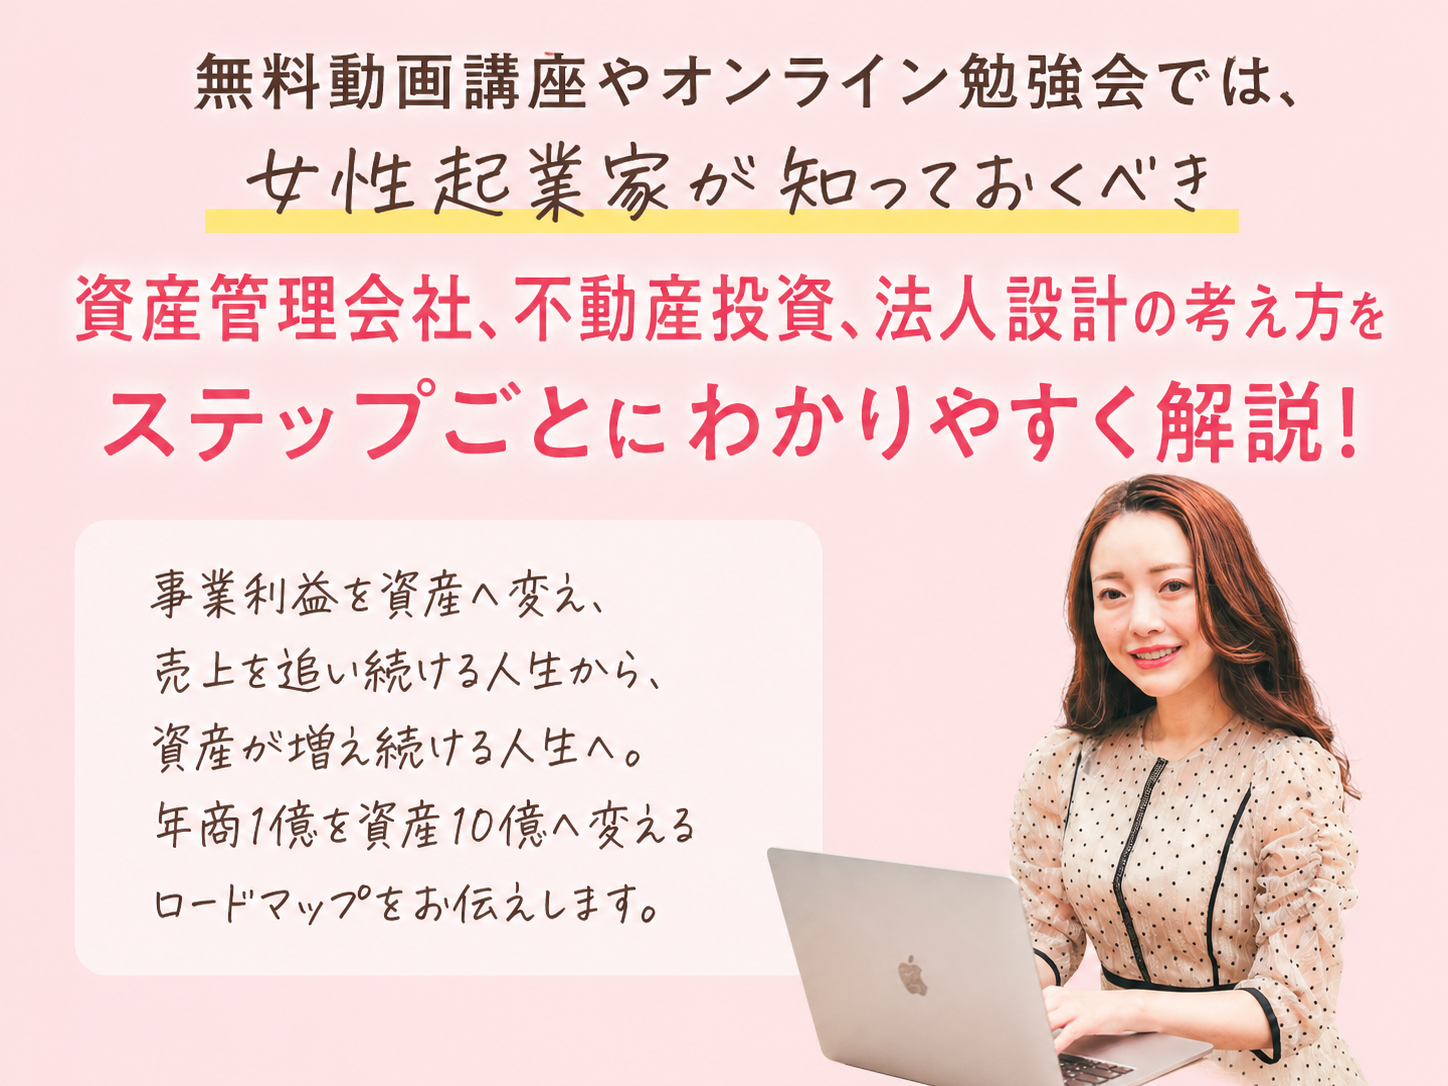
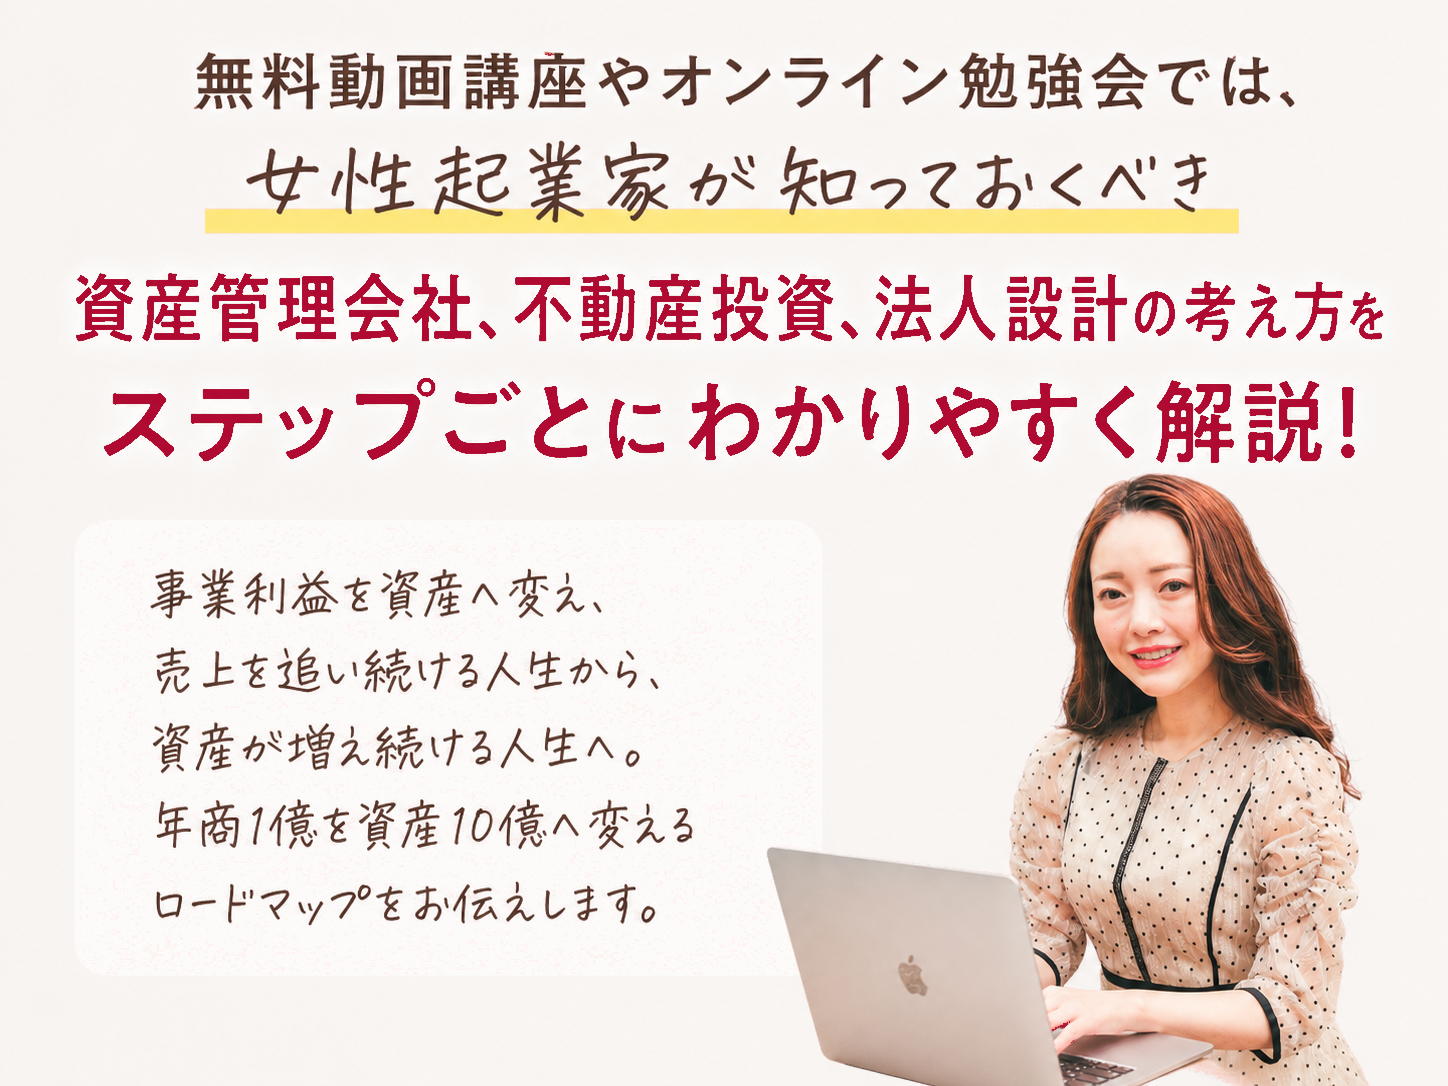
色統一の仕上げ: 解説ブロック・動画講座見出しをFV配色に変換、CSSピンク背景6箇所をクリーム化、実績画像上の切り出しカス除去

Changed region(s): [[0.0311, 0.2431, 0.9634, 0.4254], [0.3419, 0.3343, 0.3729, 0.3646]]

diff --git a/index.html b/index.html
@@ -125,7 +125,7 @@ a{text-decoration:none;color:inherit;}
 /* ヘッダー全体を淡ピンクのパネルで囲む */
 .tokuten-head{
   width:min(94%,648px);margin:0 auto;
-  background:linear-gradient(180deg,#FCEAF0 0%,#FBE1EA 100%);
+  background:linear-gradient(180deg,#FDF8F1 0%,#F7ECDF 100%);
   border:1px solid rgba(201,36,79,.14);border-radius:20px;
   padding:34px 4% 28px;box-shadow:0 8px 22px rgba(180,80,110,.12);
 }
@@ -492,7 +492,7 @@ a{text-decoration:none;color:inherit;}
    4. 解決提示
 ============================================================ */
 .kaiketsu{
-  background:linear-gradient(180deg,#FDF2F4 0%,#FCE3EA 100%);
+  background:linear-gradient(180deg,#FCF5EE 0%,#F6EADD 100%);
   padding:0;text-align:center;
 }
 .kaiketsu-img{width:100%;height:auto;display:block;}
@@ -587,7 +587,7 @@ a{text-decoration:none;color:inherit;}
 /* ============================================================
    5. 解説セクション
 ============================================================ */
-.kaisetsu{background:#FDF2F4;padding:0 0 36px;text-align:center;}
+.kaisetsu{background:#FCF5EE;padding:0 0 36px;text-align:center;}
 .kaisetsu-img{width:100%;height:auto;display:block;margin-bottom:24px;}
 .kaisetsu .ks1{
   font-weight:900;font-size:clamp(17px,4.8vw,26px);line-height:2;letter-spacing:.02em;
@@ -619,11 +619,11 @@ a{text-decoration:none;color:inherit;}
   position:relative;
   background:
     radial-gradient(circle at 6% 12%,rgba(232,180,90,.35) 0 5px,transparent 6px),
-    radial-gradient(circle at 94% 8%,rgba(211,54,103,.25) 0 7px,transparent 8px),
+    radial-gradient(circle at 94% 8%,rgba(176,0,48,.20) 0 7px,transparent 8px),
     radial-gradient(circle at 90% 46%,rgba(232,180,90,.3) 0 4px,transparent 5px),
-    radial-gradient(circle at 8% 58%,rgba(211,54,103,.2) 0 6px,transparent 7px),
+    radial-gradient(circle at 8% 58%,rgba(176,0,48,.16) 0 6px,transparent 7px),
     radial-gradient(circle at 93% 88%,rgba(232,180,90,.35) 0 5px,transparent 6px),
-    linear-gradient(180deg,#FCE3EA 0%,#FDF0F3 50%,#FBDDE5 100%);
+    linear-gradient(180deg,#F8EEE2 0%,#FCF5EE 50%,#F6EADD 100%);
   padding:0;
 }
 .fit-img{width:100%;height:auto;display:block;}
@@ -706,7 +706,7 @@ a{text-decoration:none;color:inherit;}
   text-shadow:0 2px 4px rgba(120,10,40,.45);
 }
 .kanshu-ribbon p small{display:block;font-size:.5em;letter-spacing:.3em;font-weight:700;}
-.kanshu-body{background:linear-gradient(180deg,#FBDDE5,#FDF2F4);padding:30px 0 40px;}
+.kanshu-body{background:linear-gradient(180deg,#F6EADD,#FCF5EE);padding:30px 0 40px;}
 .kanshu-card{
   width:min(92%,600px);margin:0 auto;background:#fff;
   border:1px solid #E3C97E;outline:4px solid #fff;border-radius:4px;
@@ -840,7 +840,7 @@ a{text-decoration:none;color:inherit;}
   font-size:clamp(18px,5vw,27px);letter-spacing:.08em;
   text-shadow:0 2px 8px rgba(40,15,25,.7);
 }
-.last-cta{background:linear-gradient(180deg,#FDF2F4,#FCE3EA);padding-top:38px;}
+.last-cta{background:linear-gradient(180deg,#FCF5EE,#F6EADD);padding-top:38px;}
 
 /* ============================================================
    11. フッター
@@ -931,7 +931,7 @@ footer .f-copy{margin-top:14px;font-size:12px;opacity:.95;}
 
   <!-- ============ 5. 解説セクション ============ -->
   <section class="kaisetsu">
-    <img class="kaisetsu-img" src="images/kaisetsu-main.png?v=1" alt="無料動画講座やオンライン勉強会では、女性起業家が知っておくべき資産管理会社、不動産投資、法人設計の考え方をステップごとにわかりやすく解説！事業利益を資産へ変え、売上を追い続ける人生から、資産が増え続ける人生へ。年商1億を資産10億へ変えるロードマップをお伝えします。（３児のママ経営者 松田リエ）" width="1448" height="1086">
+    <img class="kaisetsu-img" src="images/kaisetsu-main.png?v=2" alt="無料動画講座やオンライン勉強会では、女性起業家が知っておくべき資産管理会社、不動産投資、法人設計の考え方をステップごとにわかりやすく解説！事業利益を資産へ変え、売上を追い続ける人生から、資産が増え続ける人生へ。年商1億を資産10億へ変えるロードマップをお伝えします。（３児のママ経営者 松田リエ）" width="1448" height="1086">
   </section>
 
   <!-- ============ 6. こんな女性起業家にぴったり ============ -->
@@ -944,7 +944,7 @@ footer .f-copy{margin-top:14px;font-size:12px;opacity:.95;}
     <img class="profile-img" src="images/profile-head.png?v=2" alt="年商1億を資産10億へ。3児のママ経営者が実践する女性起業家の資産形成術。" width="1012" height="278">
     <img class="profile-img" src="images/kanshu-band.png?v=3" alt="事業と資産形成の両立を実現した 女性起業家 松田リエ監修。年商10億・資産20億超、40室以上の不動産を保有し、M&Aも経験した3児のママ経営者が監修。事業の利益を不動産や資産へ変え、自分が働かなくてもお金が増えていく仕組みを構築。「どう資産を作るか」を、リアルな経験に基づいて体系化した資産形成の無料講座です。" width="1122" height="1402">
     <img class="profile-img" src="images/rie-profile.png?v=4" alt="松田リエ Rie Matsuda。3児のママ経営者でありながら年商10億・資産20億超を実現／40室以上の不動産を保有し事業利益を資産へ変える仕組みを構築／M&Aも経験しお金を増やす経営を実践／累計受講生4,500名以上／YouTube登録者22万人・総フォロワー70万人超・テレビ出演16回以上／出版17冊・累計43万部突破" width="962" height="1725">
-    <img class="profile-img" src="images/jisseki.png?v=7" alt="実績画像・メディア掲載多数。テレビ出演写真／週刊女性・THE TIME,・美的.com・Yahoo!ニュース・小学館・女子SPA!・毎日新聞・朝日新聞・産経新聞・読売新聞・中日新聞・壮快ほか雑誌掲載多数。累計受講生4,500名以上／YouTube総登録者22万人以上／総フォロワー70万人突破／累計43万部突破／テレビ出演16回以上" width="724" height="1369">
+    <img class="profile-img" src="images/jisseki.png?v=8" alt="実績画像・メディア掲載多数。テレビ出演写真／週刊女性・THE TIME,・美的.com・Yahoo!ニュース・小学館・女子SPA!・毎日新聞・朝日新聞・産経新聞・読売新聞・中日新聞・壮快ほか雑誌掲載多数。累計受講生4,500名以上／YouTube総登録者22万人以上／総フォロワー70万人突破／累計43万部突破／テレビ出演16回以上" width="724" height="1369">
   </section>
 
   <!-- ============ 9-10. ビジョン〜ラスト（画像） ============ -->
@@ -952,7 +952,7 @@ footer .f-copy{margin-top:14px;font-size:12px;opacity:.95;}
     <img class="vision-img" src="images/vision-head.png?v=1" alt="「売上を作る力」だけでなく、「資産を作る力」も身につけてほしい。女性起業家が家族との時間も、お金の安心も、どちらも手に入れられる社会をつくりたい。そのために誕生した講座です" width="1086" height="1449">
     <img class="vision-img" src="images/vision-main.png?v=4" alt="年商1億を資産10億へ。売上を追い続ける女性起業家から、資産が増え続ける女性経営者へ。今こそ、資産形成の第一歩を。女性起業家のための資産形成完全ロードマップ 完全無料 オンライン勉強会を開催中！" width="941" height="749">
     <div class="last-video" style="position:relative;">
-      <img class="vision-img" src="images/last-video.png?v=1" alt="動画講座全3回(100分以上)プレゼント！ビジネスで稼ぐ力だけでなく、資産を作る力、守る力を身につけませんか？" width="1523" height="1033">
+      <img class="vision-img" src="images/last-video.png?v=2" alt="動画講座全3回(100分以上)プレゼント！ビジネスで稼ぐ力だけでなく、資産を作る力、守る力を身につけませんか？" width="1523" height="1033">
       <a class="cta-link" href="https://line.me/R/ti/p/@623nffxx" style="position:absolute;left:3.77%;top:44.9%;width:92.46%;display:block;">
         <img class="cta-img" src="images/last-video-btn.png?v=1" alt="最大で豪華30大特典プレゼント中 今すぐ無料で受け取る" width="1280" height="404">
       </a>
